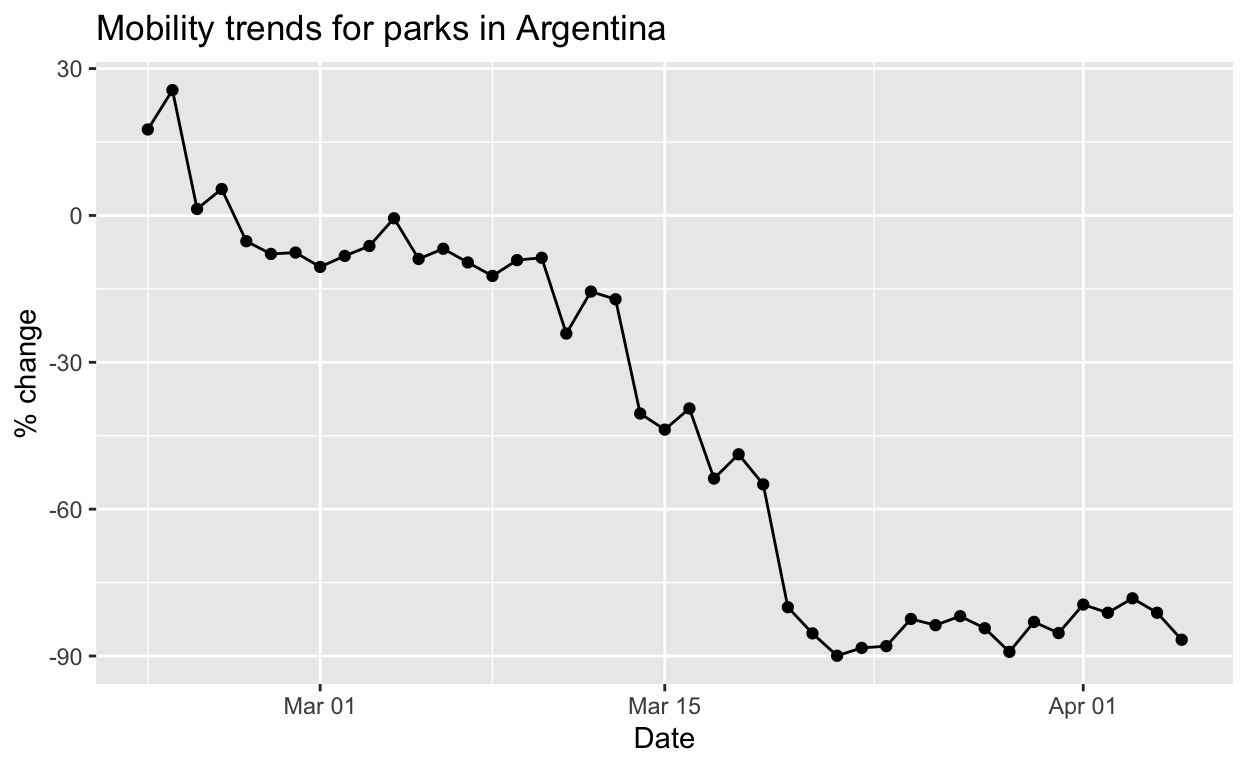
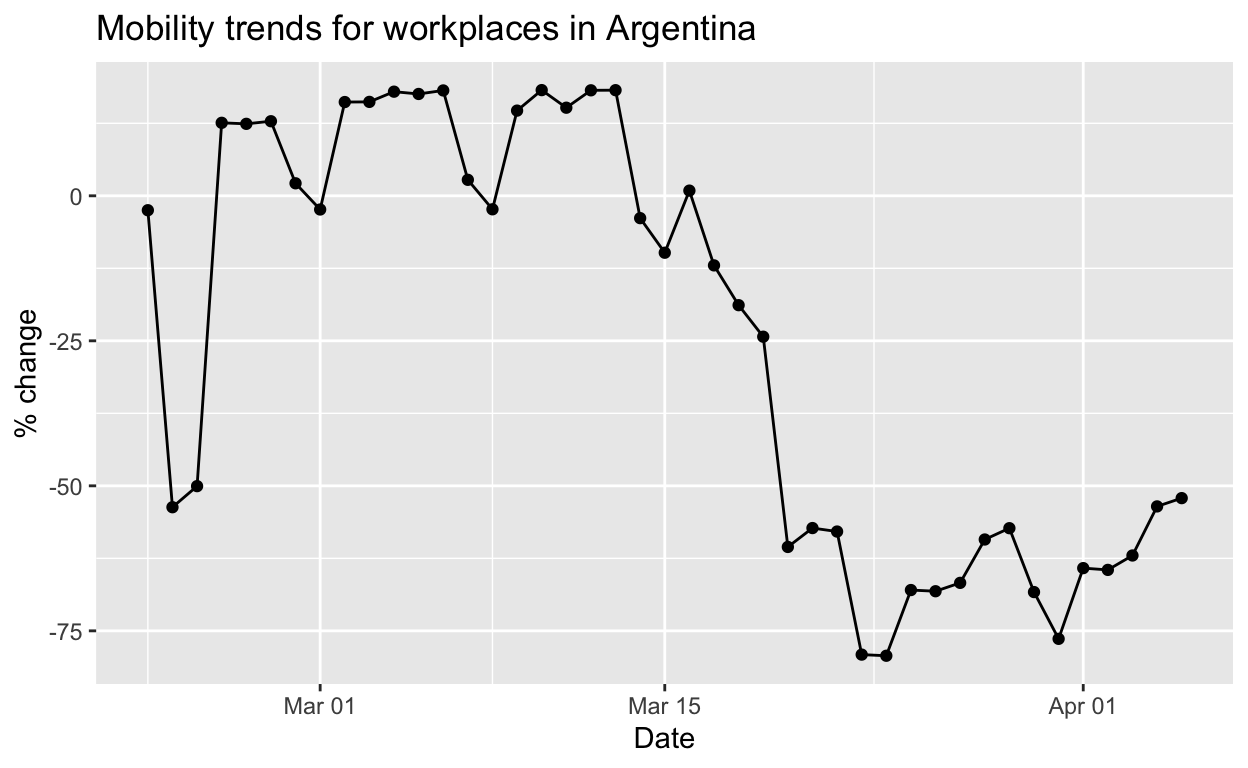
exploring trends in mobility decline as infection rates rose

diff --git a/docs/posts/2020-05-08-joannapost1/index.html b/docs/posts/2020-05-08-joannapost1/index.html
@@ -50,7 +50,7 @@
 <!--/radix_placeholder_rmarkdown_metadata-->
   
   <script type="text/json" id="radix-resource-manifest">
-  {"type":"character","attributes":{},"value":["joannapost1_files/figure-html5/adding unique title to each plot with country name-1.png","joannapost1_files/figure-html5/adding unique title to each plot with country name-2.png","joannapost1_files/figure-html5/trying out parallel iteration, parks mobility trends-1.png","joannapost1_files/figure-html5/trying out parallel iteration, parks mobility trends-2.png"]}
+  {"type":"character","attributes":{},"value":["joannapost1_files/bowser-1.9.3/bowser.min.js","joannapost1_files/distill-2.2.21/template.v2.js","joannapost1_files/figure-html5/adding unique title to each plot with country name-1.png","joannapost1_files/figure-html5/adding unique title to each plot with country name-2.png","joannapost1_files/figure-html5/collapsing mobility across place categories-1.png","joannapost1_files/figure-html5/collapsing mobility across place categories-2.png","joannapost1_files/figure-html5/collapsing mobility across place categories-3.png","joannapost1_files/figure-html5/how mobility relates to infection rates-1.png","joannapost1_files/figure-html5/how mobility relates to infection rates-2.png","joannapost1_files/figure-html5/how mobility relates to infection rates-3.png","joannapost1_files/figure-html5/how mobility relates to infection rates-4.png","joannapost1_files/figure-html5/trying out parallel iteration, parks mobility trends-1.png","joannapost1_files/figure-html5/trying out parallel iteration, parks mobility trends-2.png","joannapost1_files/jquery-1.11.3/jquery.min.js","joannapost1_files/webcomponents-2.0.0/webcomponents.js"]}
   </script>
   <!--radix_placeholder_navigation_in_header-->
 
@@ -1332,6 +1332,37 @@ document.addEventListener('DOMContentLoaded', function() {
 <pre><code>
 [[1]]</code></pre>
 <p><img src="joannapost1_files/figure-html5/adding%20unique%20title%20to%20each%20plot%20with%20country%20name-2.png" width="624" /></p>
+</div>
+<div class="layout-chunk" data-layout="l-body">
+<p><img src="joannapost1_files/figure-html5/collapsing%20mobility%20across%20place%20categories-1.png" width="624" /></p>
+<pre><code>
+[[1]]</code></pre>
+<p><img src="joannapost1_files/figure-html5/collapsing%20mobility%20across%20place%20categories-2.png" width="624" /></p>
+<pre><code>
+[[1]]</code></pre>
+<p><img src="joannapost1_files/figure-html5/collapsing%20mobility%20across%20place%20categories-3.png" width="624" /></p>
+</div>
+<div class="layout-chunk" data-layout="l-body">
+<p><img src="joannapost1_files/figure-html5/how%20mobility%20relates%20to%20infection%20rates-1.png" width="624" /></p>
+<pre><code>
+Call:
+lm(formula = total_mob ~ total_cases, data = d)
+
+Residuals:
+    Min      1Q  Median      3Q     Max 
+-302.76  -85.94   46.89   81.65  419.47 
+
+Coefficients:
+              Estimate Std. Error t value Pr(&gt;|t|)    
+(Intercept) -6.924e+01  4.115e+00  -16.83   &lt;2e-16 ***
+total_cases -1.546e-03  1.232e-04  -12.55   &lt;2e-16 ***
+---
+Signif. codes:  0 &#39;***&#39; 0.001 &#39;**&#39; 0.01 &#39;*&#39; 0.05 &#39;.&#39; 0.1 &#39; &#39; 1
+
+Residual standard error: 111.4 on 815 degrees of freedom
+Multiple R-squared:  0.1619,    Adjusted R-squared:  0.1609 
+F-statistic: 157.4 on 1 and 815 DF,  p-value: &lt; 2.2e-16</code></pre>
+<p><img src="joannapost1_files/figure-html5/how%20mobility%20relates%20to%20infection%20rates-2.png" width="624" /><img src="joannapost1_files/figure-html5/how%20mobility%20relates%20to%20infection%20rates-3.png" width="624" /><img src="joannapost1_files/figure-html5/how%20mobility%20relates%20to%20infection%20rates-4.png" width="624" /></p>
 </div>
 <!--radix_placeholder_article_footer-->
 <!--/radix_placeholder_article_footer-->

diff --git a/_posts/2020-05-08-joannapost1/joannapost1.html b/_posts/2020-05-08-joannapost1/joannapost1.html
@@ -49,7 +49,7 @@
   <!--/radix_placeholder_rmarkdown_metadata-->
   
   <script type="text/json" id="radix-resource-manifest">
-  {"type":"character","attributes":{},"value":["joannapost1_files/figure-html5/adding unique title to each plot with country name-1.png","joannapost1_files/figure-html5/adding unique title to each plot with country name-2.png","joannapost1_files/figure-html5/trying out parallel iteration, parks mobility trends-1.png","joannapost1_files/figure-html5/trying out parallel iteration, parks mobility trends-2.png"]}
+  {"type":"character","attributes":{},"value":["joannapost1_files/bowser-1.9.3/bowser.min.js","joannapost1_files/distill-2.2.21/template.v2.js","joannapost1_files/figure-html5/adding unique title to each plot with country name-1.png","joannapost1_files/figure-html5/adding unique title to each plot with country name-2.png","joannapost1_files/figure-html5/collapsing mobility across place categories-1.png","joannapost1_files/figure-html5/collapsing mobility across place categories-2.png","joannapost1_files/figure-html5/collapsing mobility across place categories-3.png","joannapost1_files/figure-html5/how mobility relates to infection rates-1.png","joannapost1_files/figure-html5/how mobility relates to infection rates-2.png","joannapost1_files/figure-html5/how mobility relates to infection rates-3.png","joannapost1_files/figure-html5/how mobility relates to infection rates-4.png","joannapost1_files/figure-html5/trying out parallel iteration, parks mobility trends-1.png","joannapost1_files/figure-html5/trying out parallel iteration, parks mobility trends-2.png","joannapost1_files/jquery-1.11.3/jquery.min.js","joannapost1_files/webcomponents-2.0.0/webcomponents.js"]}
   </script>
   <!--radix_placeholder_navigation_in_header-->
   <!--/radix_placeholder_navigation_in_header-->
@@ -982,6 +982,37 @@
 <pre><code>
 [[1]]</code></pre>
 <p><img src="joannapost1_files/figure-html5/adding%20unique%20title%20to%20each%20plot%20with%20country%20name-2.png" width="624" /></p>
+</div>
+<div class="layout-chunk" data-layout="l-body">
+<p><img src="joannapost1_files/figure-html5/collapsing%20mobility%20across%20place%20categories-1.png" width="624" /></p>
+<pre><code>
+[[1]]</code></pre>
+<p><img src="joannapost1_files/figure-html5/collapsing%20mobility%20across%20place%20categories-2.png" width="624" /></p>
+<pre><code>
+[[1]]</code></pre>
+<p><img src="joannapost1_files/figure-html5/collapsing%20mobility%20across%20place%20categories-3.png" width="624" /></p>
+</div>
+<div class="layout-chunk" data-layout="l-body">
+<p><img src="joannapost1_files/figure-html5/how%20mobility%20relates%20to%20infection%20rates-1.png" width="624" /></p>
+<pre><code>
+Call:
+lm(formula = total_mob ~ total_cases, data = d)
+
+Residuals:
+    Min      1Q  Median      3Q     Max 
+-302.76  -85.94   46.89   81.65  419.47 
+
+Coefficients:
+              Estimate Std. Error t value Pr(&gt;|t|)    
+(Intercept) -6.924e+01  4.115e+00  -16.83   &lt;2e-16 ***
+total_cases -1.546e-03  1.232e-04  -12.55   &lt;2e-16 ***
+---
+Signif. codes:  0 &#39;***&#39; 0.001 &#39;**&#39; 0.01 &#39;*&#39; 0.05 &#39;.&#39; 0.1 &#39; &#39; 1
+
+Residual standard error: 111.4 on 815 degrees of freedom
+Multiple R-squared:  0.1619,    Adjusted R-squared:  0.1609 
+F-statistic: 157.4 on 1 and 815 DF,  p-value: &lt; 2.2e-16</code></pre>
+<p><img src="joannapost1_files/figure-html5/how%20mobility%20relates%20to%20infection%20rates-2.png" width="624" /><img src="joannapost1_files/figure-html5/how%20mobility%20relates%20to%20infection%20rates-3.png" width="624" /><img src="joannapost1_files/figure-html5/how%20mobility%20relates%20to%20infection%20rates-4.png" width="624" /></p>
 </div>
 <!--radix_placeholder_article_footer-->
 <!--/radix_placeholder_article_footer-->

diff --git a/docs/index.html b/docs/index.html
@@ -1628,7 +1628,7 @@ function init_posts_list() {
 <div class="publishedDate">May 8, 2020</div>
 </div>
 <div class="thumbnail">
-<img/>
+<img data-src="posts/2020-05-08-joannapost1/joannapost1_files/figure-html5/trying out parallel iteration, parks mobility trends-1.png"/>
 </div>
 <div class="description">
 <h2>joanna_post1</h2>
@@ -1653,7 +1653,9 @@ function init_posts_list() {
 <div class="metadata">
 <div class="publishedDate">May 8, 2020</div>
 </div>
-<div class="thumbnail"></div>
+<div class="thumbnail">
+<img/>
+</div>
 <div class="description">
 <h2>Welcome to Functional Programming Blog</h2>
 <p>Welcome to our new blog, Functional Programming Blog. We hope you enjoy 
